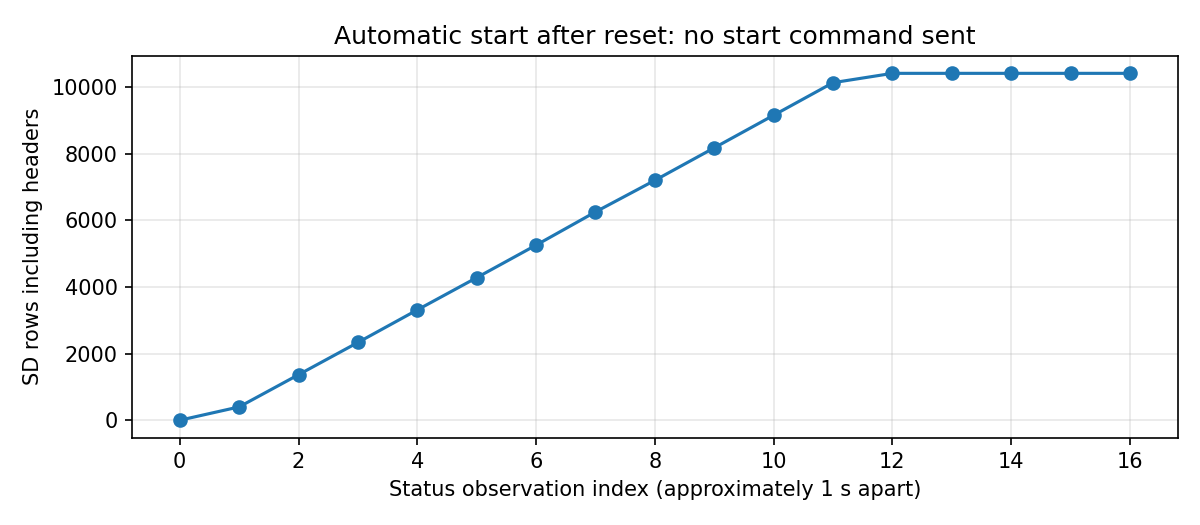
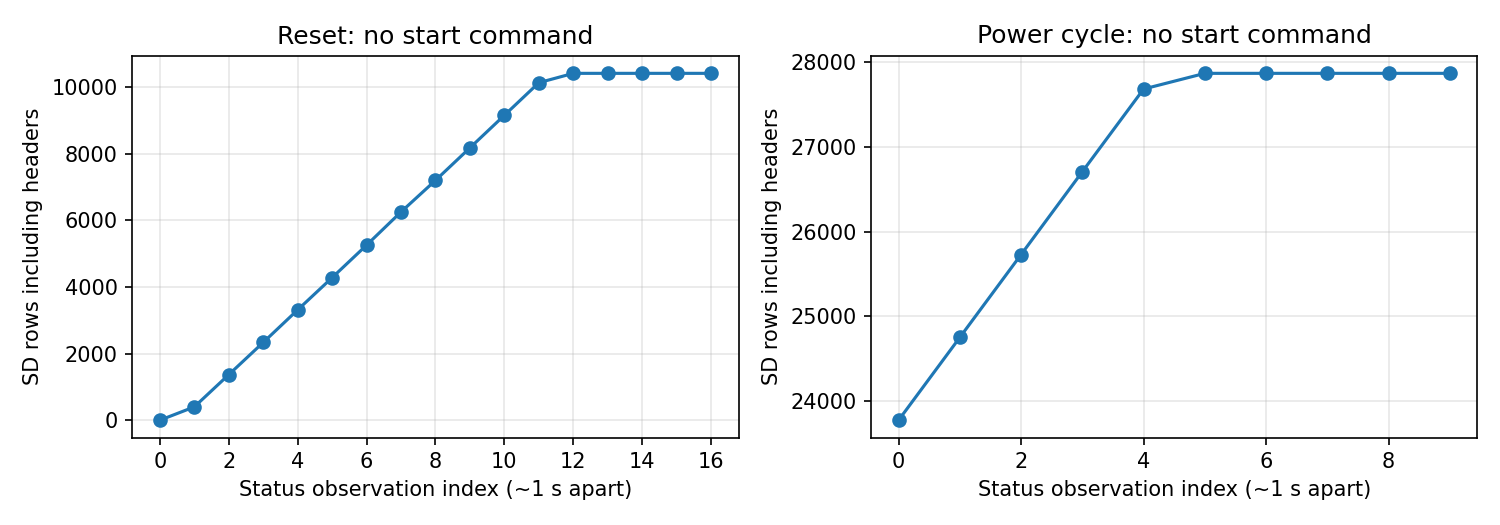
Confirm automatic SD recording after user power cycle

diff --git a/reports/README.md b/reports/README.md
@@ -16,7 +16,7 @@
 | 2026-09-20 | [010 窓際GNSS・UART/PPS再検証](2026-09-20_010_window_link/README.md) | 衛星信号あり、測位・親機への通信と同期は未達 |
 | 2026-09-20 | [011 IMU 960Hz・実サブコア並列化](2026-09-20_011_imu_multicore/README.md) | 平均967Hz、13,389行検証成功。厳密な等間隔性は未達 |
 | 2026-09-20 | [012 配線修正後UART・PPS](2026-09-20_012_corrected_link/README.md) | 有効データ60件・PPS60回受信。UTC同期は未成立 |
-| 2026-09-20 | [014 Sony SD保存形式・自動起動](2026-09-20_014_sd_autostart/README.md) | リセット後の自動保存・全行検証成功。実電源投入は確認待ち |
+| 2026-09-20 | [014 Sony SD保存形式・自動起動](2026-09-20_014_sd_autostart/README.md) | リセット・電源入れ直し後の自動保存・全行検証成功 |
 
 ```text
 reports/
